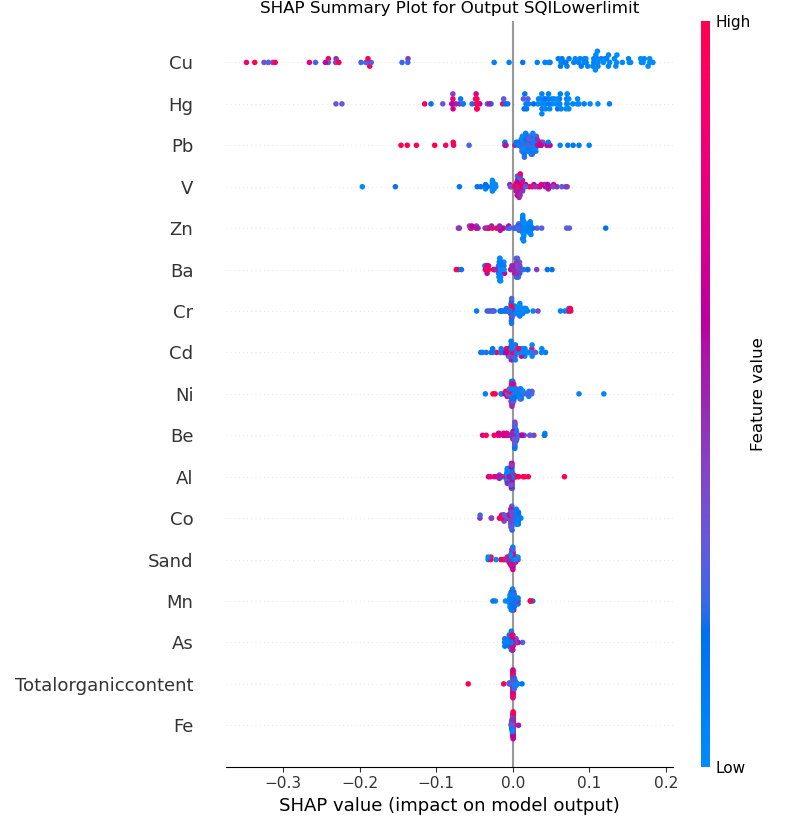
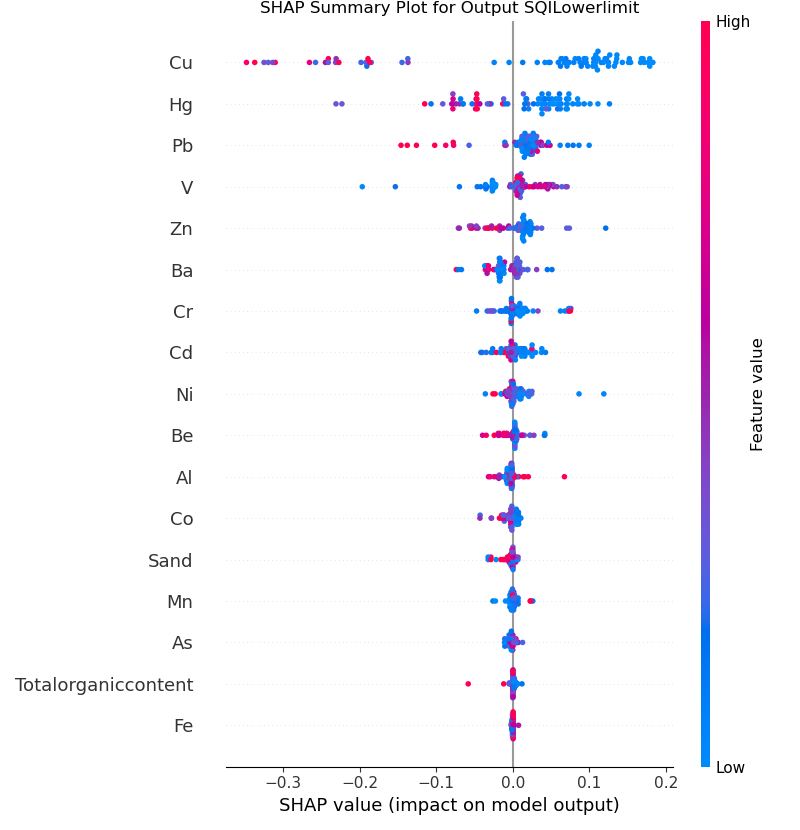
added individual macrofauna sepcies as target variable

diff --git a/src/utils/Preprocessor.py b/src/utils/Preprocessor.py
@@ -7,39 +7,52 @@ from sklearn.preprocessing import StandardScaler, MinMaxScaler
 from sklearn.model_selection import train_test_split
 import numpy as np
 
+'''
+TODO:
+Merge benthic macrofauna dataset with sediment quality. Spionidae, and maybe Nephtyidae or ...
+'''
+
 
 
 class Preprocessor():
-    def __init__(self, sedimentPath, savePath) -> None:
+    def __init__(self, sedimentPath, faunaPath, savePath) -> None:
         self.sedimentPath = sedimentPath
+        self.faunaPath = faunaPath
         self.savePath = savePath
+        self.df = pd.read_excel(self.sedimentPath, skiprows=2)
+        self.benthicMacrofauna = pd.read_excel(self.faunaPath,  header=[0, 1], index_col=0)
+        # print(self.benthicMacrofauna.head())
         
     def load_dataset(self):
-        df = pd.read_excel(self.sedimentPath, skiprows=2)
+        
         print("loaded dataset")
         # df.replace(r'^\s*$', pd.NA, regex=True, inplace=True)
         # df_cleaned = df.dropna(axis=1, how='all')
-        df_cleaned = df.loc[:, ~df.columns.str.contains('^Unnamed')]
+        df_cleaned = self.df.loc[:, ~self.df.columns.str.contains('^Unnamed')]
         df_cleaned.columns = df_cleaned.columns.str.replace(' ', '', regex=True)
         df_cleaned = df_cleaned.dropna(axis=1, how='all')
         df_cleaned = df_cleaned.dropna(subset=['S'])
         df_cleaned = df_cleaned.drop(columns="J'")
         
+        self.benthicMacrofauna.columns = pd.MultiIndex.from_tuples(
+        [(str(col[0]).replace(' ', ''), str(col[1]).replace(' ', '')) for col in self.benthicMacrofauna.columns]
+        )
+        self.benthicMacrofauna.index = self.benthicMacrofauna.index.str.replace(' ', '')
+        # print(self.benthicMacrofauna.head())
+
         # Create DataFrames based on port selection
         selected_ports = ['Cape Town', 'Mossel Bay']
         atlanticPorts = df_cleaned[df_cleaned['Port'].isin(selected_ports)]
         indianPorts = df_cleaned[~df_cleaned['Port'].isin(selected_ports)]
 
-        # print(len(atlanticPorts))
-        # print(len(indianPorts))
+        sediment_fauna, fauna = self._add_benthic_macrofauna(df_cleaned, self.benthicMacrofauna, "Spionidae")
+        sediment_fauna = self._replace_less_than(sediment_fauna)
+        # print("Spionidae: \n", spionidae.head())
+        
+        sediment, macrofauna = self._cleanSedimentMacrofaunaData('S', df_cleaned)
 
-        # print(atlanticPorts.head())
-        # print("Remaining columns after cleaning:")
-        # print(df_cleaned.columns.tolist())
-        sediment, macrofauna = self.cleanSedimentMacrofaunaData('S', df_cleaned)
-
-        atlanticSediment, atlanticMacrofauna = self.cleanSedimentMacrofaunaData('S', atlanticPorts)
-        indianSediment, indianMacrofauna = self.cleanSedimentMacrofaunaData('S', indianPorts)
+        atlanticSediment, atlanticMacrofauna = self._cleanSedimentMacrofaunaData('S', atlanticPorts)
+        indianSediment, indianMacrofauna = self._cleanSedimentMacrofaunaData('S', indianPorts)
 
         """Next part wil be updated, this is only for now:
         """
@@ -53,13 +66,21 @@ class Preprocessor():
         tempMacrofauna = tempMacrofauna.apply(pd.to_numeric, errors='coerce')
 
 
-        X_train, X_test, y_train, y_test  = self.trainTestSplit(tempSediment, tempMacrofauna)
+        X_train, X_test, y_train, y_test  = self._trainTestSplit(tempSediment, tempMacrofauna)
 
-        X_train_scaled, X_test_scaled, y_train_scaled, y_test_scaled = self.normalise(X_train, X_test, y_train, y_test)
+        X_train_scaled, X_test_scaled, y_train_scaled, y_test_scaled = self._normalise(X_train, X_test, y_train, y_test)
 
         SQI  = pd.DataFrame(df_cleaned["SQILowerlimit"])
-        X_train_SQI, X_test_SQI, y_train_SQI, y_test_SQI = self.trainTestSplit(tempSediment, SQI)
-        X_train_SQI, X_test_SQI, y_train_SQI, y_test_SQI = self.normalise(X_train_SQI, X_test_SQI, y_train_SQI, y_test_SQI)
+        X_train_SQI, X_test_SQI, y_train_SQI, y_test_SQI = self._trainTestSplit(tempSediment, SQI)
+        X_train_SQI, X_test_SQI, y_train_SQI, y_test_SQI = self._normalise(X_train_SQI, X_test_SQI, y_train_SQI, y_test_SQI)
+
+        X_train_fauna, X_test_fauna, y_train_fauna, y_test_fauna = self._trainTestSplit(sediment_fauna, fauna)
+        X_train_fauna, X_test_fauna, y_train_fauna, y_test_fauna = self._normalise(X_train_fauna, X_test_fauna, y_train_fauna, y_test_fauna)
+
+        X_train_fauna.to_csv(os.path.join(self.savePath,'../preprocessed/X_train_fauna.csv'), index=False)
+        y_train_fauna.to_csv(os.path.join(self.savePath,'../preprocessed/y_train_fauna.csv'), index=False)
+        X_test_fauna.to_csv(os.path.join(self.savePath,'../preprocessed/X_test_fauna.csv'), index=False)
+        y_test_fauna.to_csv(os.path.join(self.savePath,'../preprocessed/y_test_fauna.csv'), index=False)
 
 
 
@@ -92,20 +113,59 @@ class Preprocessor():
         y_train_SQI.to_csv(os.path.join(self.savePath,'../preprocessed/y_train_SQI.csv'), index=False)
         y_test_SQI.to_csv(os.path.join(self.savePath,'../preprocessed/y_test_SQI.csv'), index=False)
         
+
+    def _add_benthic_macrofauna(self, df, fauna_df, fauna):
+        '''
+        Selects the singular index of the specific benthic macrofauna you specified
+
+        return: the specific benthic macrofauna as a column in the harbour sediment dataset
+        '''
+
+        df = df.loc[:,"Year":"Zn"]
+
+        faunaRow =fauna_df.index.get_loc(fauna)
         
+        new = fauna_df.iloc[[0,faunaRow]]     
+
+        new = new.T
+        new = new.reset_index()       
+    
+        new.columns = ["Year", "Location", "Station", "Spionidae"]
+        # print(new.head())
+        # print(df.head())
+        
+        new["Year"] = new["Year"].astype(float)
+        new["Station"] = new["Station"].str.replace(r"^DBN(\d+)$", r"DB\1", regex=True)
+        new = pd.merge(new, df, how="inner", left_on=["Year", "Station"], right_on=["Year", "Station(Newnumber)"])
+        new = new.dropna(subset=[fauna])
+        
+        # print(new["Station"])
 
 
-    def cleanSedimentMacrofaunaData(self, split, df):
+        new.to_csv(os.path.join(self.savePath,"../preprocessed/fauna.csv"), index=False)
+
+        new_df = new.loc[:, "Totalorganiccontent":"Zn"]
+        new_fauna = pd.DataFrame(new["Spionidae"])
+        print(new_fauna)
+
+        
+        return new_df, new_fauna
+
+    def _replace_less_than(self, df):
+        df = df.replace(r"<.*", 0, regex=True)
+        return df.apply(pd.to_numeric, errors="coerce")
+
+    def _cleanSedimentMacrofaunaData(self, split, df):
         if split in df.columns:
             port = df["Port"]
             index_s = df.columns.get_loc(f"{split}")
             
             # Split the DataFrame into two parts
-            df1_temp = df.iloc[:, :index_s]  # All columns up to 'S'
-            df2 = df.iloc[:, index_s :]  # All columns from 'S' onwards
+            df1_temp = df.iloc[:, :index_s]  # All columns up to "S"
+            df2 = df.iloc[:, index_s :]  # All columns from "S" onwards
             df1 = df1_temp.loc[:, "Totalorganiccontent":"Zn"]
-            df1 = df1.replace(r'<.*', 0, regex=True)
-            df1 = df1.apply(pd.to_numeric, errors='coerce')
+            df1 = df1.replace(r"<.*", 0, regex=True)
+            df1 = df1.apply(pd.to_numeric, errors="coerce")
 
             # selected_ports = ['Cape Town', 'Mossel Bay']
             # atlanticPorts = df_cleaned[df_cleaned['Port'].isin(selected_ports)]
@@ -124,10 +184,10 @@ class Preprocessor():
 
         return df1, df2
     
-    def trainTestSplit(self, X, y):
+    def _trainTestSplit(self, X, y):
         return train_test_split(X, y, test_size=0.2, random_state=42)
     
-    def normalise(self, X_train, X_test, y_train, y_test):
+    def _normalise(self, X_train, X_test, y_train, y_test):
 
         scaler = MinMaxScaler()
 
@@ -143,5 +203,5 @@ class Preprocessor():
         
         return X_train_scaled, X_test_scaled, y_train_scaled, y_test_scaled
     
-    def concatDF(self, df1, df2):
+    def _concatDF(self, df1, df2):
         return pd.concat([df1,df2], axis=1)

diff --git a/src/utils/models.py b/src/utils/models.py
@@ -8,11 +8,18 @@ from sklearn.linear_model import LinearRegression
 from sklearn.metrics import mean_squared_error, mean_absolute_error, r2_score, accuracy_score
 from sklearn.ensemble import RandomForestRegressor, GradientBoostingRegressor
 from sklearn.multioutput import MultiOutputRegressor
-from sklearn.preprocessing import StandardScaler, MinMaxScaler
 from sklearn.neural_network import MLPRegressor
 from sklearn.model_selection import GridSearchCV
 
 import numpy as np
+
+
+'''
+TODO:
+Extremely random trees
+NN with high bias
+Bayesian model (heirarchical)
+'''
 
 
 class Model:
@@ -45,16 +52,29 @@ class Model:
         #         sep=",",
         #         encoding="utf-8")
         
-        self.X_train_scaled = pd.read_csv("../../data/preprocessed/X_train_scaled.csv",
+        # self.X_train_scaled = pd.read_csv("../../data/preprocessed/X_train_scaled.csv",
+        #         sep=",",
+        #         encoding="utf-8")
+        # self.y_train_scaled = pd.read_csv("../../data/preprocessed/y_train_scaled.csv",
+        #         sep=",",
+        #         encoding="utf-8")
+        # self.X_test_scaled = pd.read_csv("../../data/preprocessed/X_test_scaled.csv",
+        #         sep=",",
+        #         encoding="utf-8")
+        # self.y_test_scaled = pd.read_csv("../../data/preprocessed/y_test_scaled.csv",
+        #         sep=",",
+        #         encoding="utf-8")
+
+        self.X_train_scaled = pd.read_csv("../../data/preprocessed/X_train_fauna.csv",
                 sep=",",
                 encoding="utf-8")
-        self.y_train_scaled = pd.read_csv("../../data/preprocessed/y_train_scaled.csv",
+        self.y_train_scaled = pd.read_csv("../../data/preprocessed/y_train_fauna.csv",
                 sep=",",
                 encoding="utf-8")
-        self.X_test_scaled = pd.read_csv("../../data/preprocessed/X_test_scaled.csv",
+        self.X_test_scaled = pd.read_csv("../../data/preprocessed/X_test_fauna.csv",
                 sep=",",
                 encoding="utf-8")
-        self.y_test_scaled = pd.read_csv("../../data/preprocessed/y_test_scaled.csv",
+        self.y_test_scaled = pd.read_csv("../../data/preprocessed/y_test_fauna.csv",
                 sep=",",
                 encoding="utf-8")
         
@@ -89,18 +109,20 @@ class Model:
         shap_values = explainer(self.X_test_scaled)
 
         print("X_test columns", self.X_test_scaled.columns)
-        print("shap_values Shape", shap_values.shape)  # Should match the number of rows and features
+        print("shap_values Shape", shap_values.shape)
         print("X_test shape", self.X_test_scaled.shape)
 
 
-        shap_values_single_output = shap_values[..., 0]  # or choose any output index you want (0 to 6)
+        shap_values_single_output = shap_values[..., 0]
 
-        # Now plot the bar chart for the SHAP values of this specific output
         shap.plots.bar(shap_values_single_output)
         file_name = "LinearRegression_SHAP"
 
-        plt.savefig(
-            os.path.join("../../results/SHAP", file_name))
+        output_directory = os.path.join("..", "..", "results", "SHAP")
+        os.makedirs(output_directory, exist_ok=True)
+        plt.draw()
+        plt.tight_layout()
+        plt.savefig(os.path.join(output_directory, file_name), bbox_inches='tight') 
         plt.close()
 
         # shap.plots.bar(shap_values)
@@ -182,11 +204,14 @@ class Model:
             
             # Compute SHAP values for the test data
             shap_values = explainer.shap_values(self.X_test_scaled)
-            
+            print("num outputs: ", self.y_test_scaled.shape[1])
             # Append SHAP values to the list
             shap_values_list.append(shap_values[i])
-            file_name = "GBoost_SHAP_" + self.y_test_scaled.columns[i]
-            
+            if self.y_test_scaled.shape[1] > 1:
+                column_name = self.y_test_scaled.columns[i]
+            else:
+                column_name = self.y_test_scaled.columns[0]
+            file_name = "RF_SHAP_" + column_name
             # Optionally, plot the summary for each output
             shap.summary_plot(shap_values, self.X_test_scaled, show=False, feature_names=self.X_train_scaled.columns)
             plt.title(f'SHAP Summary Plot for Output {self.y_test_scaled.columns[i]}')

diff --git a/src/data/main.py b/src/data/main.py
@@ -8,6 +8,7 @@ from utils.visualise import Visualisation
 from utils.models import Model
 
 HARBOUR_DATA_PATH = "../../data/rawData/AllPortSedimentQuality.xlsx"
+FAUNA_DATA_PATH = "../../data/rawData/Benthos families.xlsx"
 SAVE_Data_PATH = "../../data/partPreprocessed/"
 
 RETRIEVE_DATA_PATH = "../../data/preprocessed"
@@ -22,7 +23,7 @@ DO_MODELS = True
 if __name__ == "__main__":
     
     if DO_PREPROCESSING == True:
-        preprocessing = Preprocessor(sedimentPath = HARBOUR_DATA_PATH, savePath=SAVE_Data_PATH)
+        preprocessing = Preprocessor(sedimentPath = HARBOUR_DATA_PATH, faunaPath = FAUNA_DATA_PATH, savePath=SAVE_Data_PATH)
         preprocessing.load_dataset()
     else:
         print("Skipped preprocessing")
